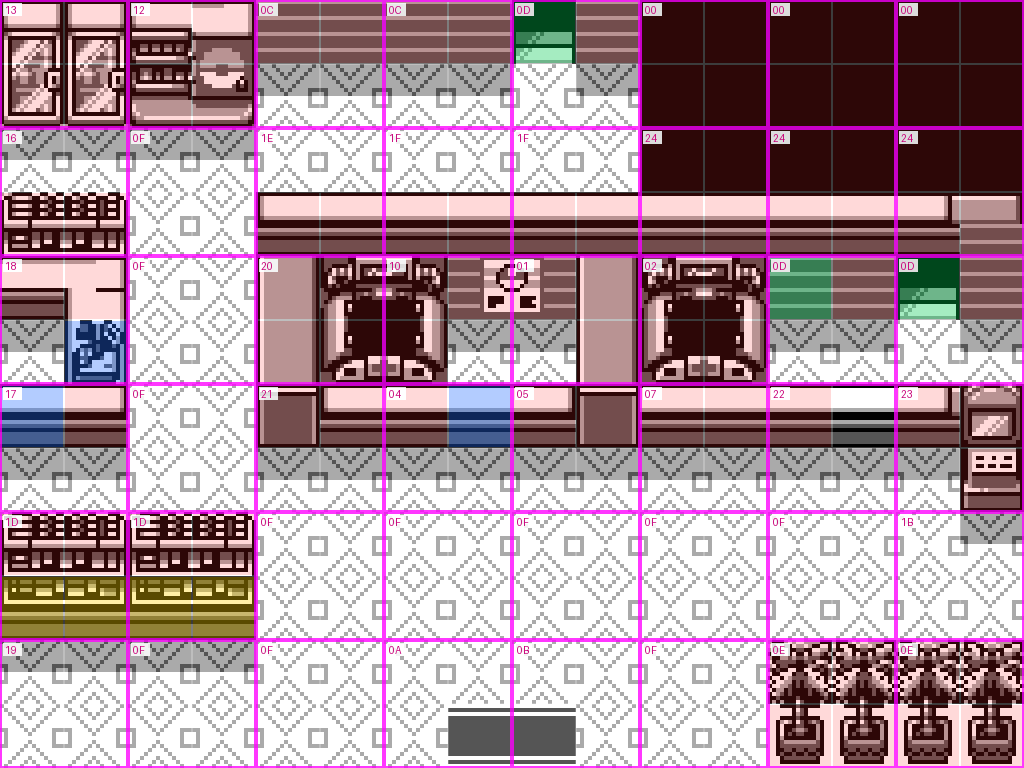
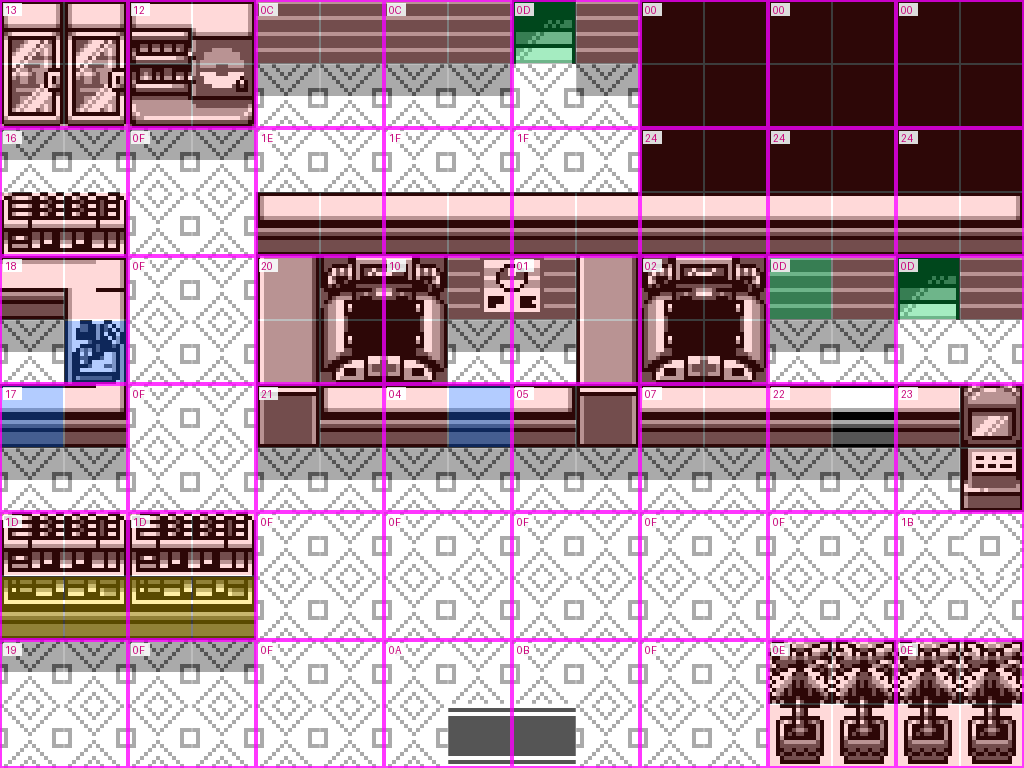
Indigo Plateau lobby: the painter's fixed version
10 merges (at most 7 pixels apart) to fit the mart tileset's 96 tiles.

Claude-Session: https://claude.ai/code/session_013LfQ5QibCznGgf4ezQffZU

diff --git a/docs/design_brief.md b/docs/design_brief.md
@@ -2452,8 +2452,8 @@ it.
 - **Status.** Both are the painting, checked pixel for pixel against it and
   in the emulator (color and DMG; clerks talked to over their counters):
   the Pokémon Centers and the hotel, 40 blocks (3 new), 64 tiles, 2 counter
-  tiles; the marts and the Indigo Plateau lobby, 41 blocks (4 new), 96
-  tiles, 2 counter tiles, after merging 18 near-identical tiles (at most 10
+  tiles; the marts and the Indigo Plateau lobby, 42 blocks (5 new), 96
+  tiles, 2 counter tiles, after merging 10 near-identical tiles (at most 7
   pixels apart: highlight lines on counters and shelves, the doorway's
   shading). The lobby stays with the marts: its shop corner shares their
   tiles, and its Pokémon Center half needed the smallest merges.
